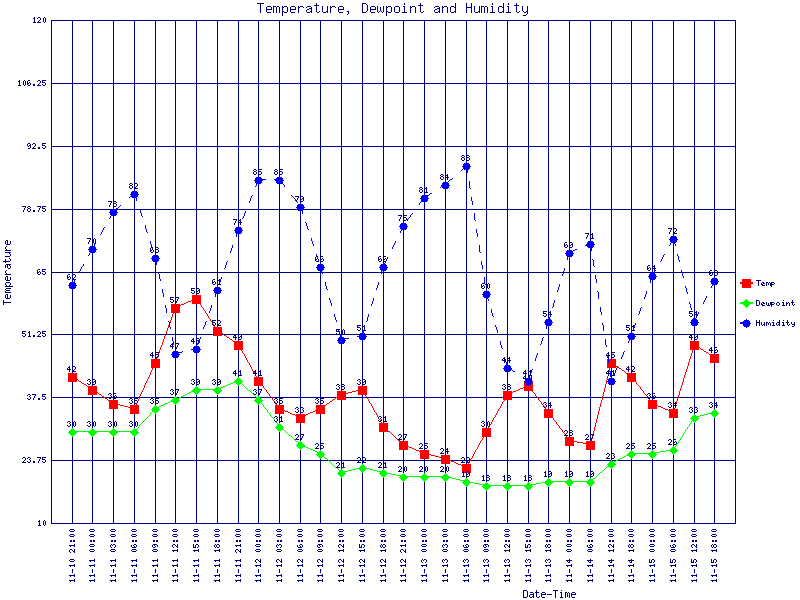
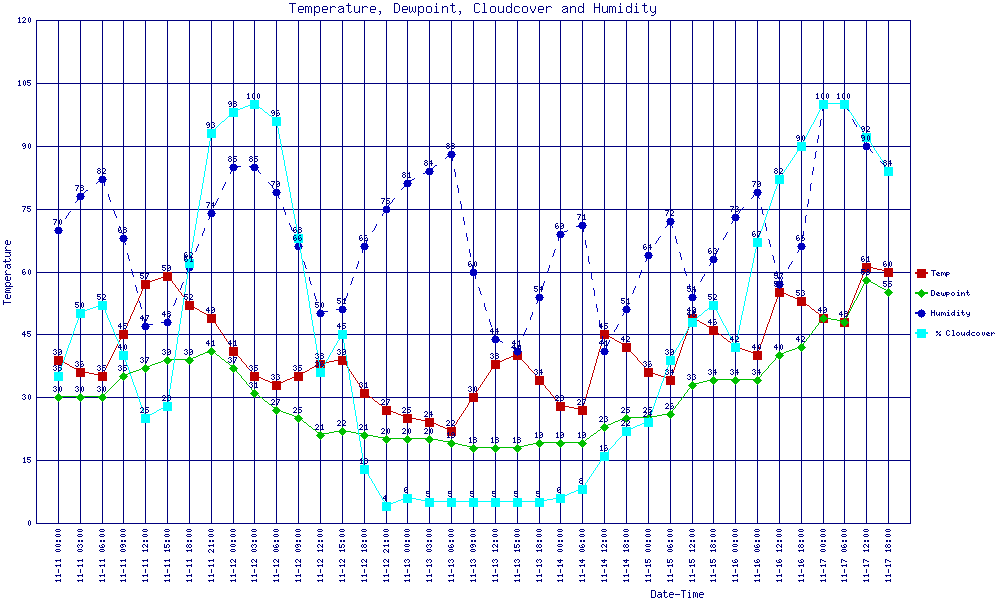
Updated .png and index.html.
--Tim

Changed region(s): [[0.0, 0.0, 1.0, 1.0]]

diff --git a/index.html b/index.html
@@ -14,6 +14,6 @@ body {
 <img src="HighTemp.png" width="640" height="480" longdesc="file:///Macintosh HD/Users/tim/perl/ndfdGetwx/HighTemp.png" />
 <br>
 
-<img src="3hrtmpdp.png" width="800" height="600" longdesc="3hrtmpdp.png" />
+<img src="3hrtmpdp.png" width="1000" height="600" longdesc="3hrtmpdp.png" />
 </body>
 </html>
